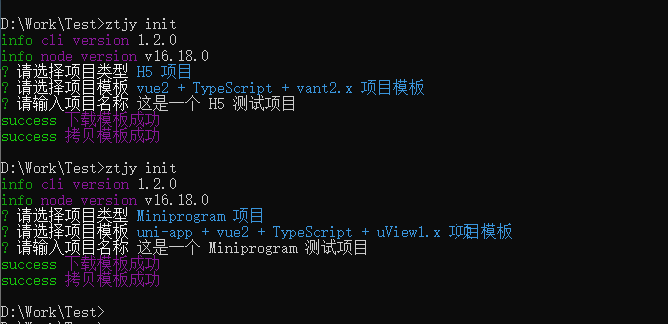
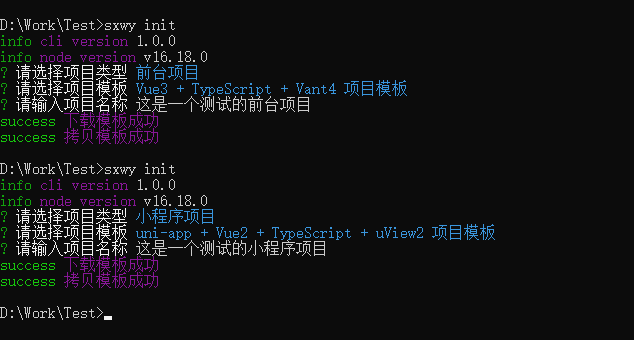
docs: 脚手架文档补充

Changed region(s): [[0.0, 0.0617, 0.7792, 1.0]]

diff --git a/docs/.vuepress/config.js b/docs/.vuepress/config.js
@@ -56,6 +56,10 @@ module.exports = {
             {
               title: '归档管理',
               path: 'project/archive'
+            },
+            {
+              title: '项目模板',
+              path: 'project/template'
             }
           ]
         }

diff --git a/docs/rules/project/template.md b/docs/rules/project/template.md
@@ -1,0 +1,76 @@
+# 项目模板
+
+为了让项目更加快速且规范，这边提供对应平台的项目模板，并且提供脚手架的使用方式
+
+## 前台项目
+
+[Vue2 + TypeScript + Vant2 项目模板](https://github.com/sxwy/vue2-h5-template)
+
+[Vue3 + TypeScript + Vant4 项目模板](https://github.com/sxwy/vue3-h5-template)
+
+## 后台项目
+
+[Vue3 + TypeScript + ElementPlus 项目模板](https://github.com/sxwy/vue3-admin-template)
+
+## 小程序项目
+
+[uni-app + Vue2 + TypeScript + uView2 项目模板](https://github.com/sxwy/vue2-miniprogram-template)
+
+## 脚手架
+
+### 安装
+
+- node >= 16
+
+```js
+npm i @sxwy/cli -g
+```
+
+### 使用
+
+```js
+Usage: sxwy <command> [options]
+
+Options:
+  -V, --version          output the version number
+  -d, --debug            是否开启调试模式 (default: false)
+  -h, --help             display help for command
+
+Commands:
+  init [options] [name]  init project
+  help [command]         display help for command
+```
+
+### 示例
+
+- 查看脚手架的使用方式
+
+```
+sxwy -h
+```
+
+- 查看脚手架的版本
+
+```
+sxwy -V
+```
+
+- 开启脚手架的 debug 模式
+
+```
+sxwy -d
+```
+
+- 查看 `init` 具体的使用方式
+
+```
+sxwy init -h
+```
+
+- 选择项目模板并自动下载
+
+```
+sxwy init
+```
+
+![cli.png](/standard/images/rules_project_template_cli.png)
